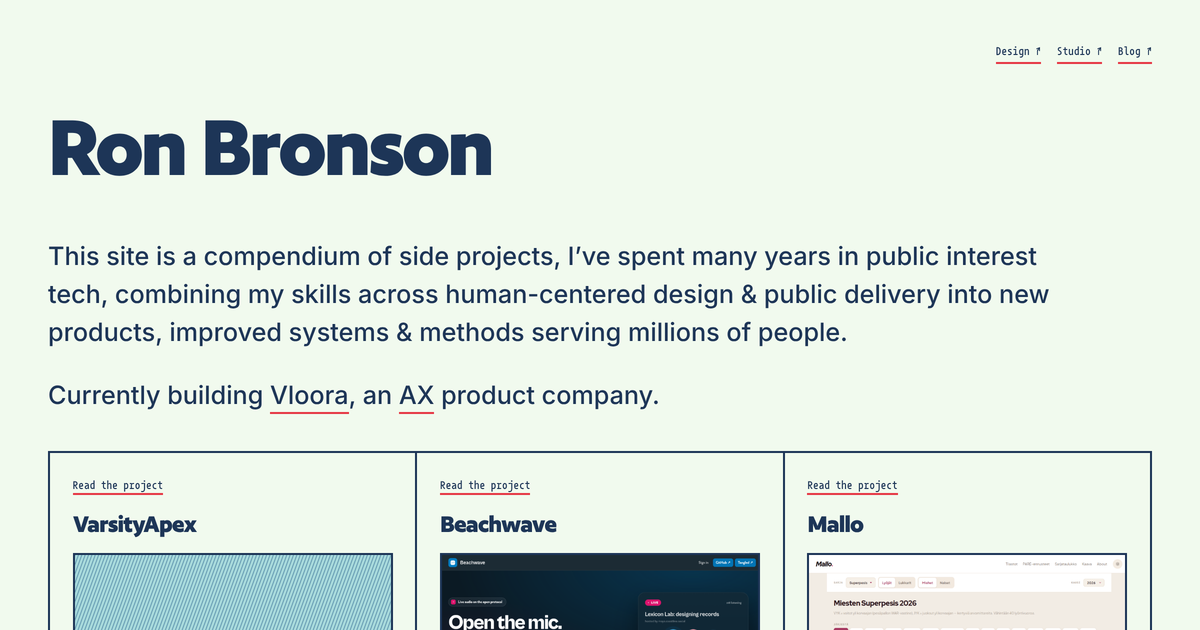
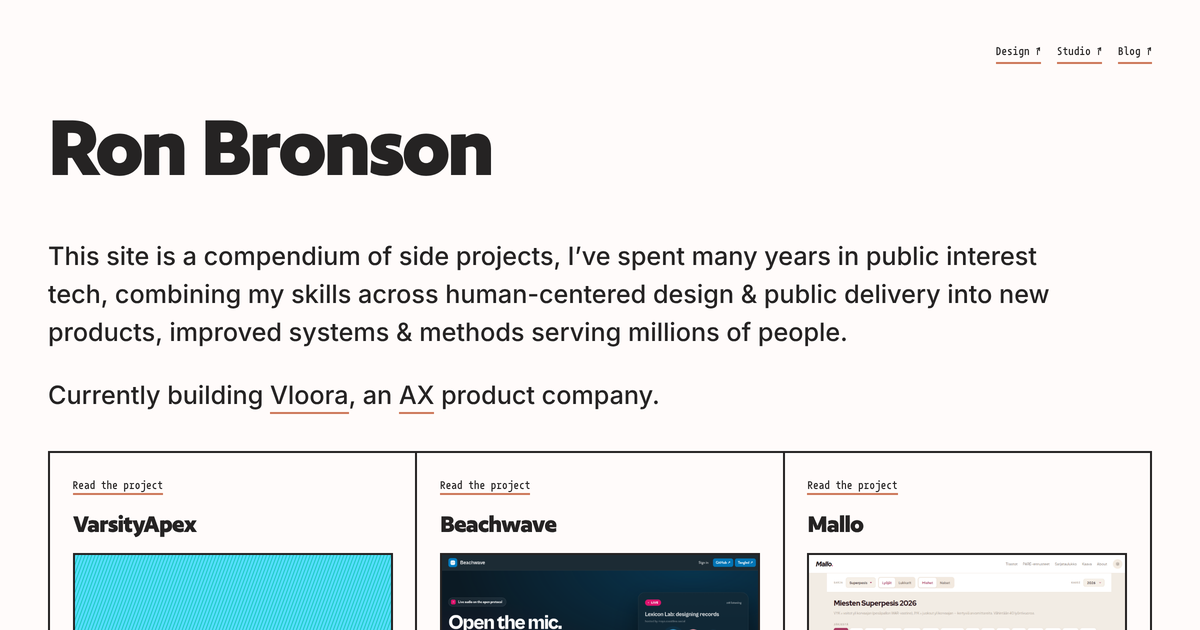
Replace Paper light scheme with Snow palette and refresh share card
Claude-Session: https://claude.ai/code/session_01EGqkkk6P4n5rFFFJC5PJ15

diff --git a/assets/palette.js b/assets/palette.js
@@ -51,6 +51,28 @@
     navy:  '#1d3557',
   };
 
+  /* ── Snow: the pigment set for the light scheme ──
+       Snow         #fffbfa   paper ground
+       Shadow Grey  #252323   ink              (15.21 on snow, AAA)
+       Sky Aqua     #54defd   panel ground     (grey ink on it 9.86, AAA)
+       Mint Leaf    #00bd9d   decorative rule  (2.33 on snow, hairlines and
+                                                pattern stripes only)
+       Coral Glow   #f78e69   swatch; 2.26 on snow, too light for links,
+                              borders or focus rings
+     Two tuned shades keep the roles accessible:
+       soft text = Mint Leaf 40% toward grey (#0f7f6c), 4.78 on snow, AA
+       accent    = Coral Glow 20% toward grey (#cd795b), 3.15 on snow,
+                   clears the 3:1 minimum for underlines and focus rings */
+  const SNO = {
+    snow:   '#fffbfa',
+    grey:   '#252323',
+    aqua:   '#54defd',
+    mint:   '#00bd9d',
+    coral:  '#f78e69',
+    soft:   '#0f7f6c',
+    accent: '#cd795b',
+  };
+
   /* ── Coffee: a second pigment set for the dark scheme ──
        Dark Coffee     #432818   ink ground
        Light Apricot   #ffe6a7   light ink        (11.01 on coffee, AAA)
@@ -90,16 +112,13 @@
   }
 
   const PALETTES = {
-    paper: build('Paper', {
-      bg:     PIG.honey,
-      deeper: PIG.frost,
-      ink:    PIG.navy,
-      // Cerulean lands at 4.30 on Honeydew — just under AA for body text.
-      // No pigment fills the "soft text on light" slot accessibly, so this
-      // is Cerulean nudged 6% toward Navy: same hue, now AA (4.54).
-      soft:   '#437799',
-      rule:   PIG.ceru,
-      accent: PIG.red,
+    paper: build('Snow', {
+      bg:     SNO.snow,
+      deeper: SNO.aqua,
+      ink:    SNO.grey,
+      soft:   SNO.soft,
+      rule:   SNO.mint,
+      accent: SNO.accent,
     }),
     coffee: build('Coffee', {
       bg:     COF.coffee,

diff --git a/assets/site.css b/assets/site.css
@@ -72,13 +72,13 @@
 }
 
 :root {
-  /* Static "Paper" fallback — palette.js overwrites these at load. */
-  --bg: #f1faee;        /* Honeydew     */
-  --bg-deeper: #a8dadc; /* Frosted Blue */
-  --ink: #1d3557;       /* Oxford Navy  */
-  --ink-soft: #437799;  /* Cerulean, AA-tuned for soft text on honeydew */
-  --rule: #457b9d;      /* Cerulean     */
-  --accent: #e63946;    /* Punch Red    */
+  /* Static "Snow" fallback — palette.js overwrites these at load. */
+  --bg: #fffbfa;        /* Snow         */
+  --bg-deeper: #54defd; /* Sky Aqua     */
+  --ink: #252323;       /* Shadow Grey  */
+  --ink-soft: #0f7f6c;  /* Mint Leaf, AA-tuned for soft text on snow */
+  --rule: #00bd9d;      /* Mint Leaf    */
+  --accent: #cd795b;    /* Coral Glow, tuned to 3:1 on snow */
 
   /* Structure */
   --frame: 2px;         /* essential grid frame, drawn in --ink */
